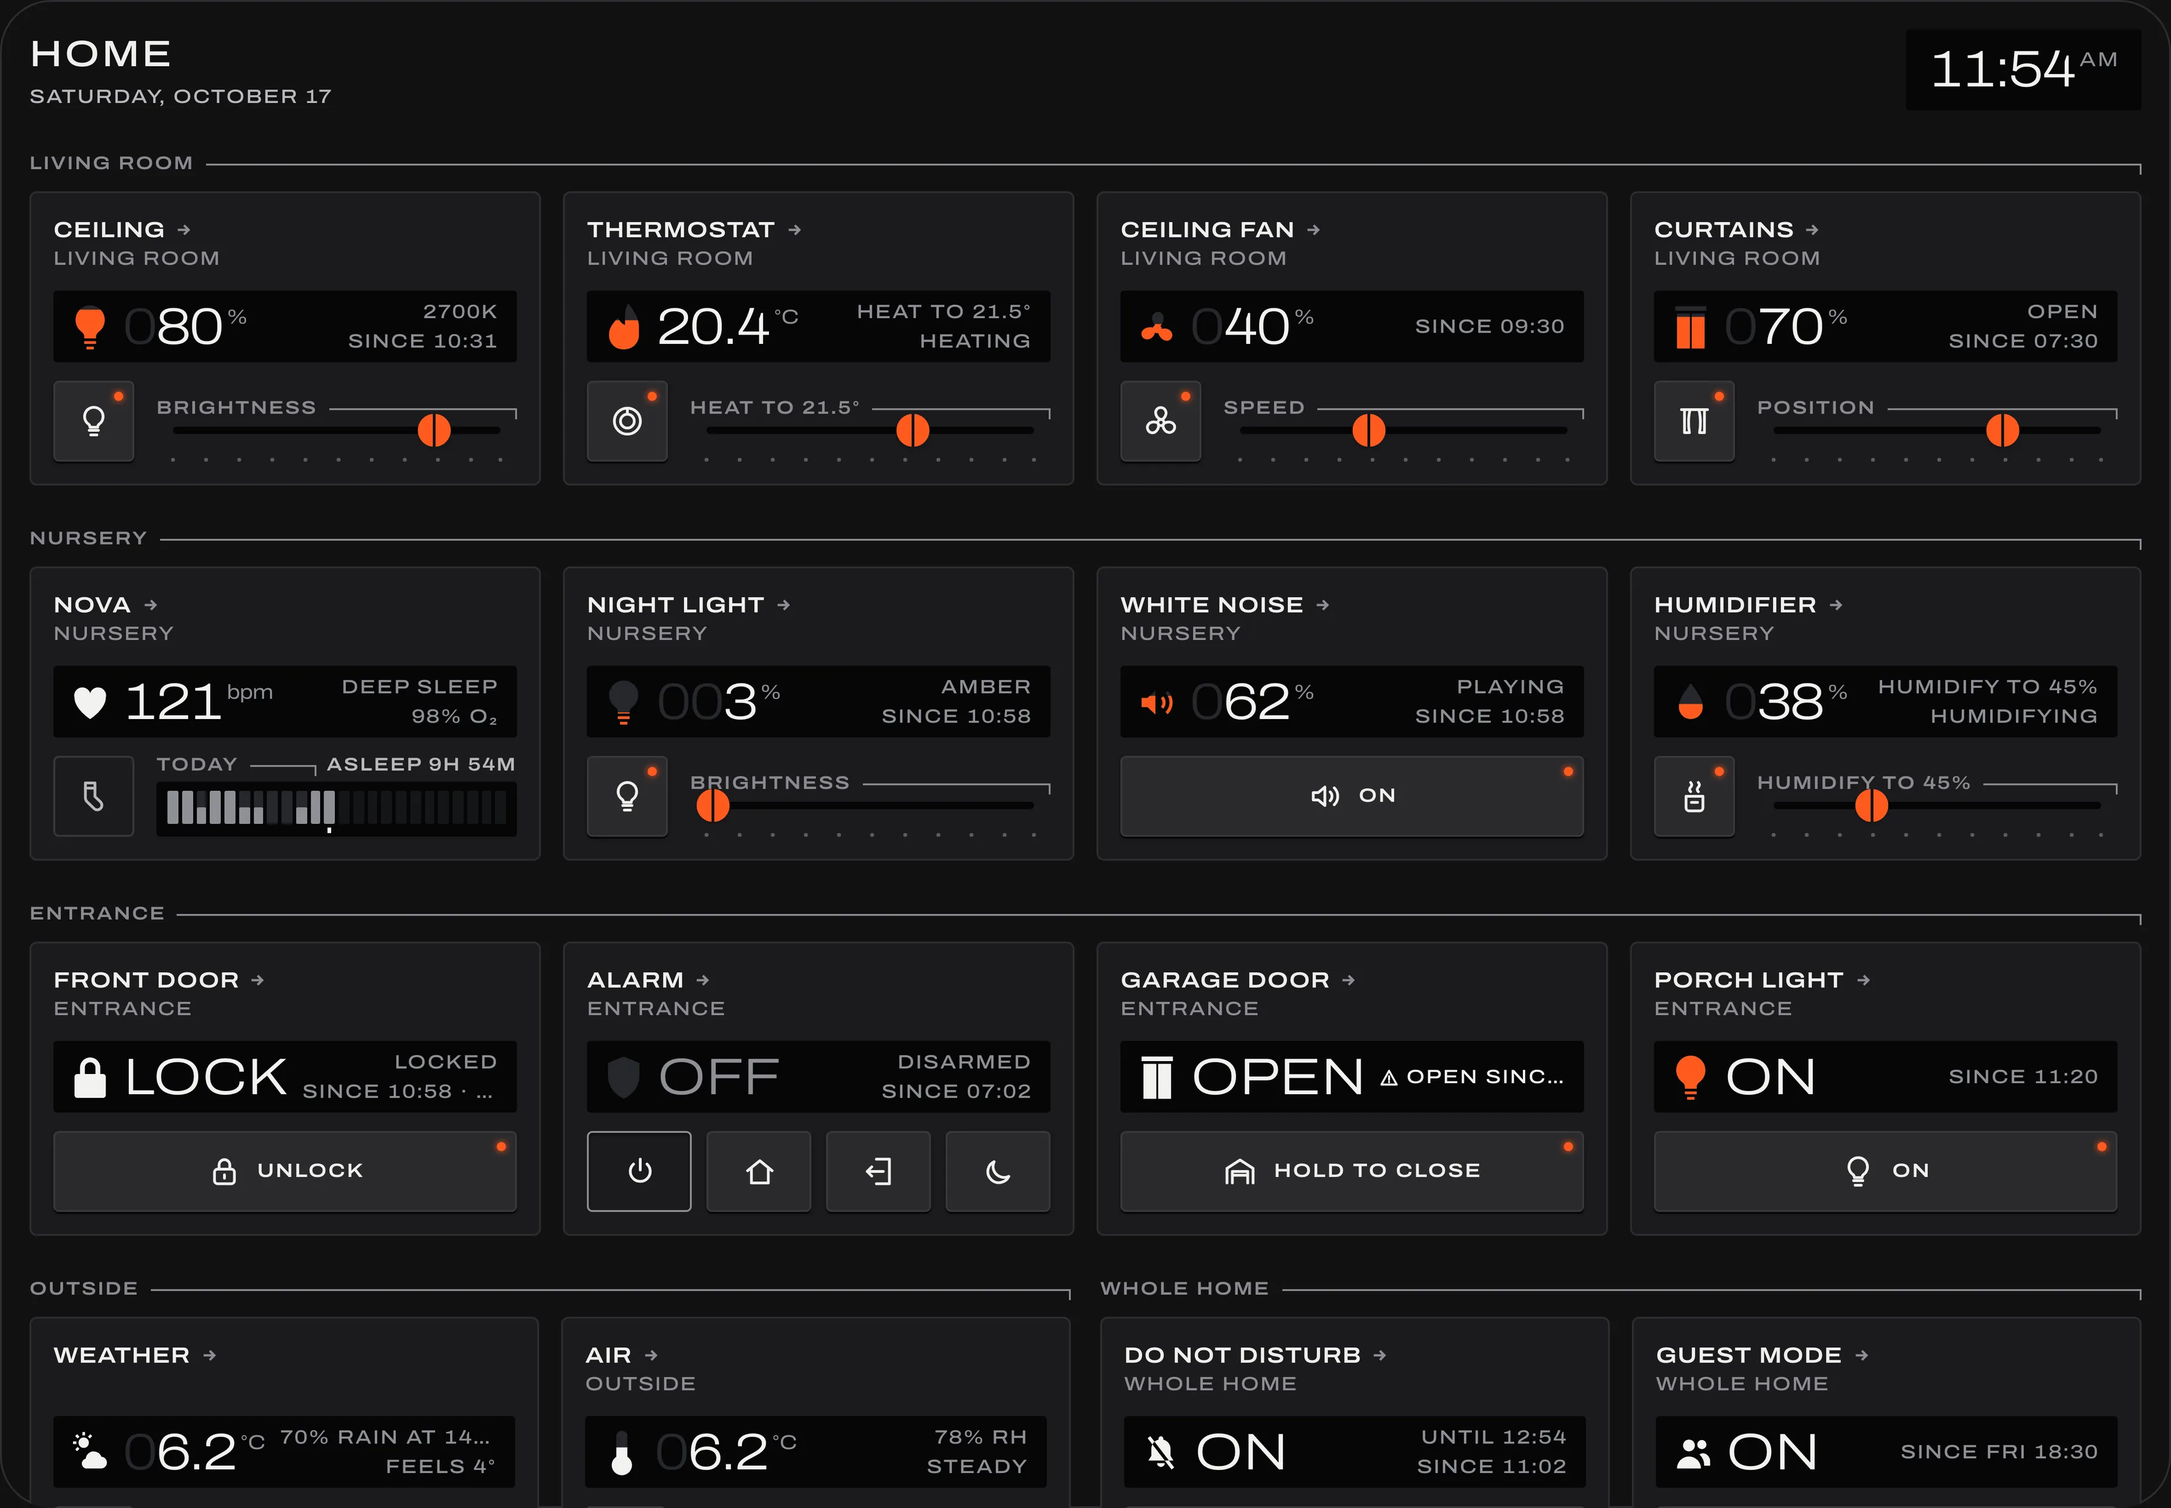
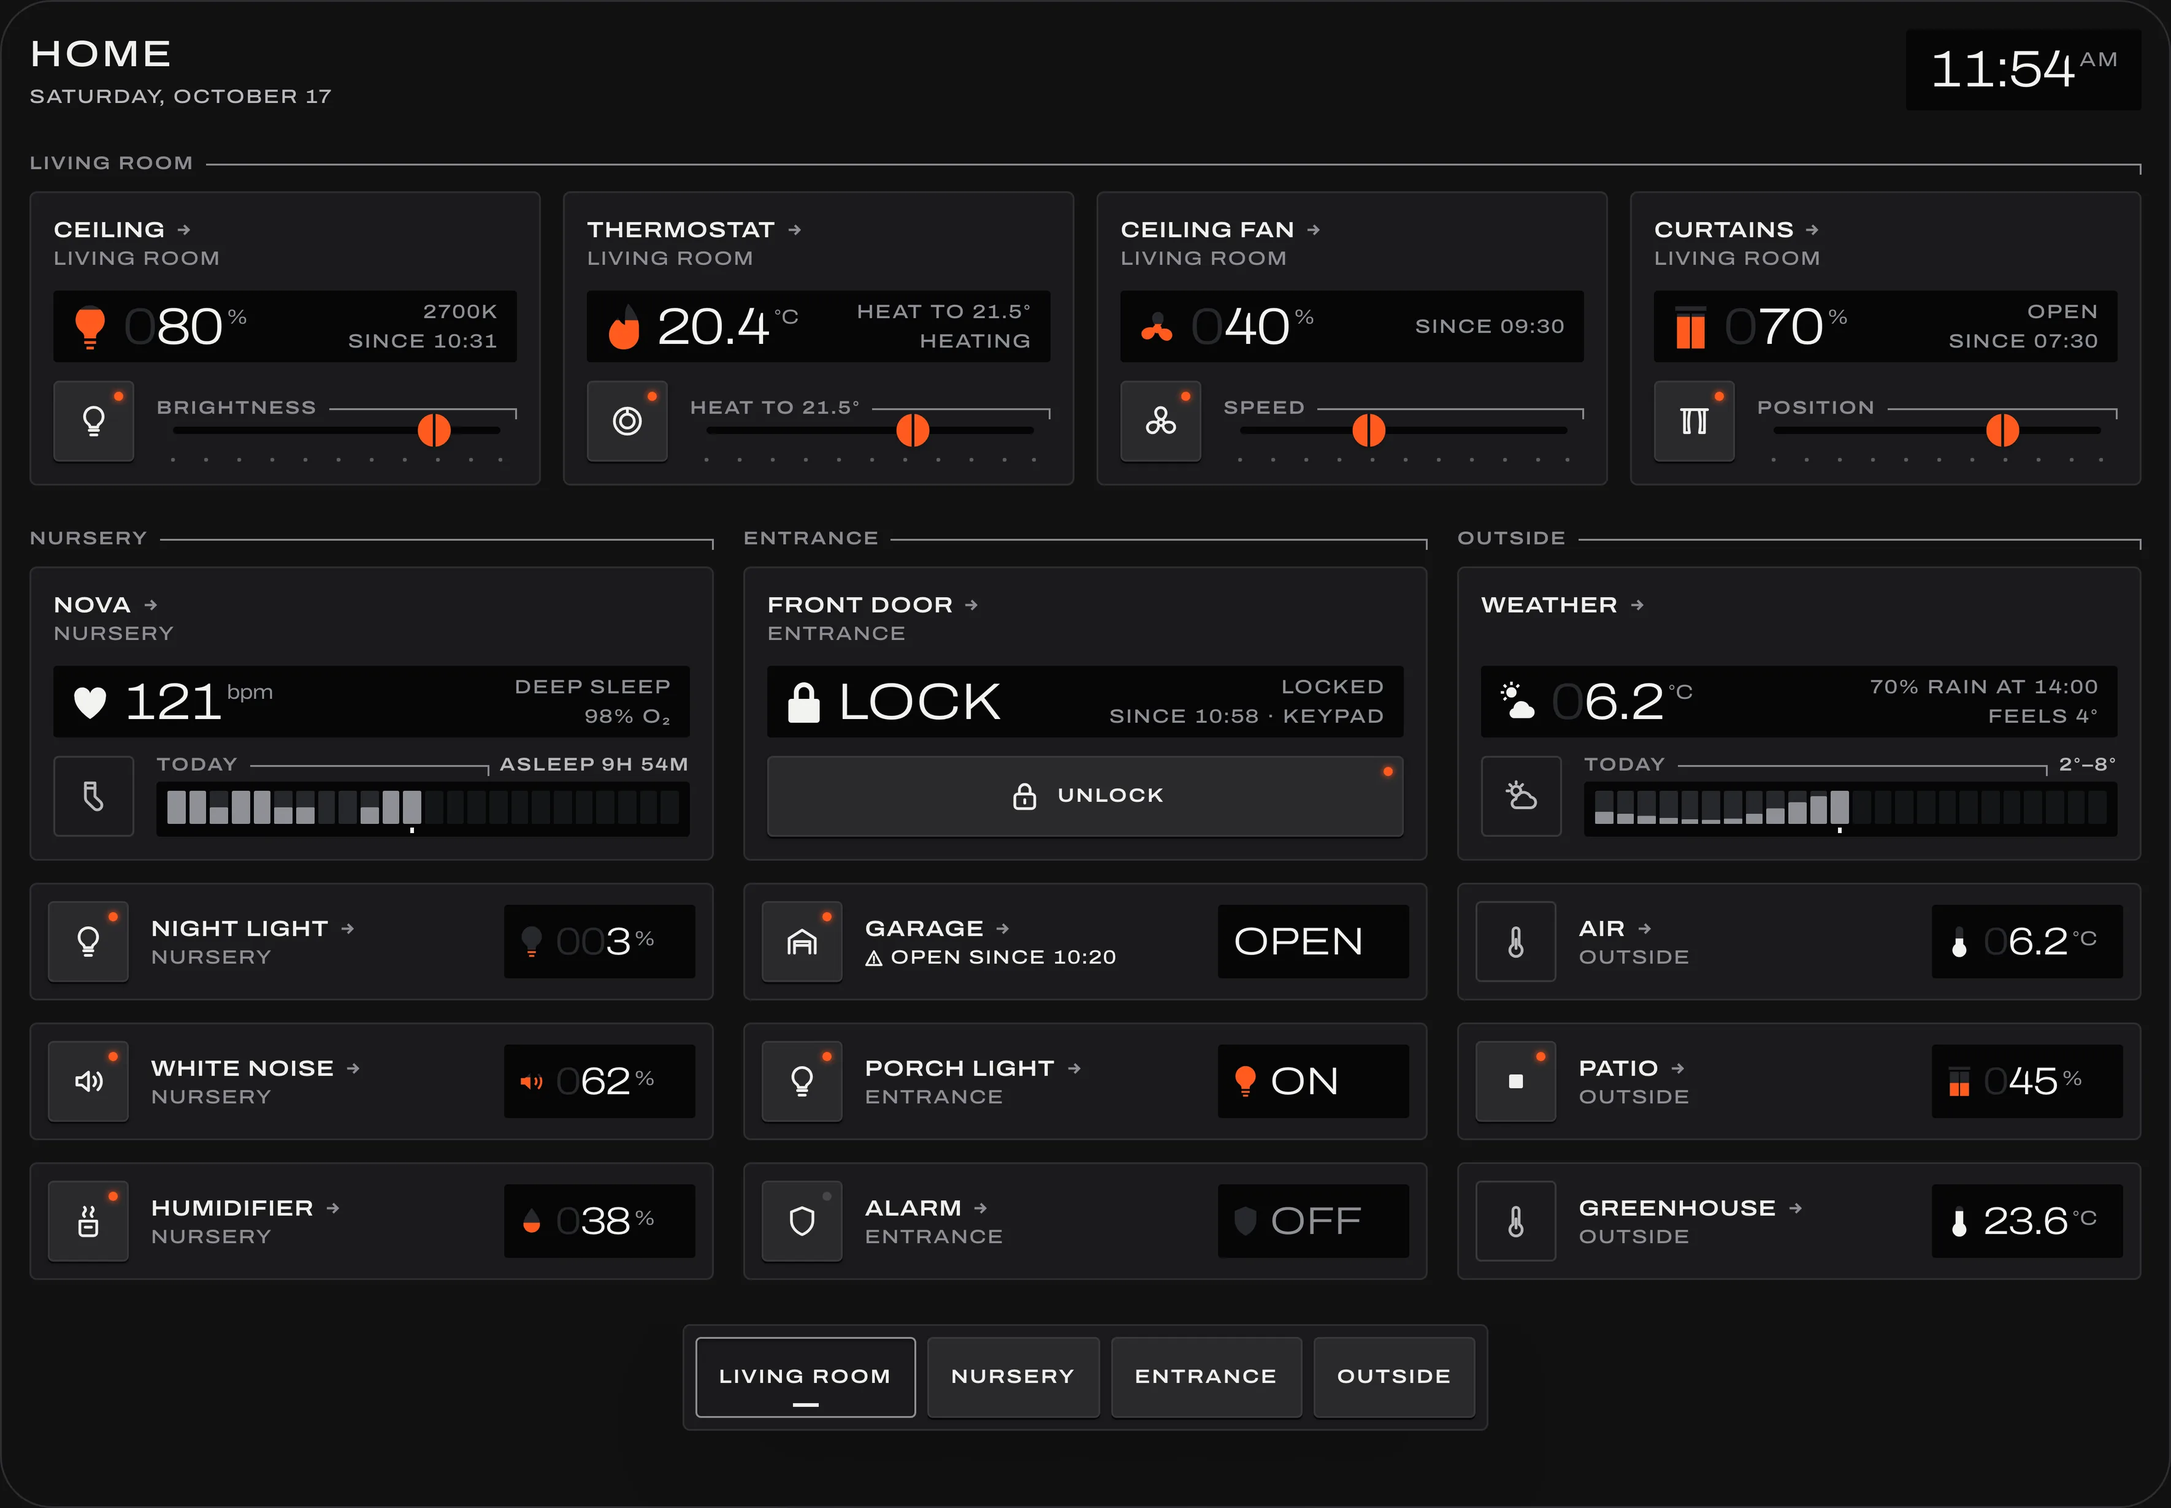
field: rebuild the tablet and wall panel examples
Lead both pages with the living room and dock their nav, add the garden and greenhouse seeds they draw, and show the wall panel in Field's Marketplace README.

diff --git a/src/skins/field/dashboards/Examples.stories.tsx b/src/skins/field/dashboards/Examples.stories.tsx
@@ -211,80 +211,110 @@ export const Phone: Story = {
   ),
 };
 
-/** Tablet, landscape: whole modules, an area a row of four, so every fader, key and today's meter is in reach; the
-    living room first, then the nursery and the entrance, then the outside beside the whole home's modes. */
-export const Tablet: Story = {
-  render: () => (
-    <Device label="Tablet, landscape" width={1180} height={820}>
-      <FieldPage title="Home" now={NOW} showTime>
-        <Area title="Living room">
-          <Light seed="dimmable" area="Living room" />
-          <Climate seed="heating" area="Living room" />
-          <Fan seed="ceiling" area="Living room" />
-          <Cover seed="curtains" area="Living room" />
-        </Area>
-        <Area title="Nursery">
-          <Owlet seed="deep" area="Nursery" />
-          <Light seed="nightLight" area="Nursery" />
-          <Sound seed="on" area="Nursery" />
-          <Humidifier seed="on" area="Nursery" name="Humidifier" />
-        </Area>
-        <Area title="Entrance">
-          <Lock seed="locked" area="Entrance" />
-          <Alarm seed="disarmed" area="Entrance" />
-          <Cover seed="garage" area="Entrance" />
-          <Light seed="onOff" area="Entrance" />
-        </Area>
-        <Areas columns={2}>
-          <Area title="Outside">
-            <Weather seed="partly" name="Weather" />
-            <Sensor seed="outdoor" area="Outside" name="Air" />
-          </Area>
-          <Area title="Whole home">
-            <Toggle seed="dnd" area="Whole home" />
-            <Toggle seed="guest" area="Whole home" />
-          </Area>
-        </Areas>
-      </FieldPage>
-    </Device>
-  ),
-};
+const TABLET_AREAS = [["living", "Living room"], ["nursery", "Nursery"], ["entrance", "Entrance"], ["outside", "Outside"]] as const;
 
-/** The wall panel's page, read up close or across the room. */
-function WallPage({ viewing }: { viewing?: "far" }) {
+/**
+ * The tablet's page: the living room across the top, the page's hero and the room you press most, then a column per
+ * other place, each led by its one whole module and taking 64 px rows under it. The nav docked at the bottom keeps the
+ * place being read down.
+ */
+function TabletPage() {
+  const page = useRef<HTMLDivElement>(null);
+  const [reading, jump] = useScrollSpy(page);
+  const nav = <NavBar items={TABLET_AREAS.map(([id, label]) => ({ key: id, label, kind: "section", current: reading === id, onSelect: () => jump(id) }))} />;
+  const row = { footprint: "compact" } as const;
   return (
-    <FieldPage title="Home" now={NOW} showTime viewing={viewing}>
-      <Areas columns={4}>
-        <Area title="Living room">
-          <Light seed="dimmable" area="Living room" />
-          <Climate seed="heating" area="Living room" />
-          <Fan seed="ceiling" area="Living room" footprint="compact" />
-          <Cover seed="curtains" area="Living room" footprint="compact" />
-        </Area>
-        <Area title="Nursery">
+    <FieldPage title="Home" now={NOW} showTime pageRef={page} nav={nav}>
+      <Area id="living" title="Living room">
+        <Light seed="dimmable" area="Living room" />
+        <Climate seed="heating" area="Living room" />
+        <Fan seed="ceiling" area="Living room" />
+        <Cover seed="curtains" area="Living room" />
+      </Area>
+      <Areas columns={3}>
+        <Area id="nursery" title="Nursery">
           <Owlet seed="deep" area="Nursery" />
-          <Light seed="nightLight" area="Nursery" />
-          <Sound seed="on" area="Nursery" footprint="compact" />
-          <Humidifier seed="on" area="Nursery" name="Humidifier" footprint="compact" />
+          <Light seed="nightLight" area="Nursery" {...row} />
+          <Sound seed="on" area="Nursery" {...row} />
+          <Humidifier seed="on" area="Nursery" name="Humidifier" {...row} />
         </Area>
-        <Area title="Whole home">
-          <Alarm seed="away" area="Whole home" />
-          <Lock seed="locked" area="Whole home" footprint="compact" />
-          <Toggle seed="dnd" area="Whole home" footprint="compact" />
-          <Cover seed="garage" area="Whole home" footprint="compact" />
+        <Area id="entrance" title="Entrance">
+          <Lock seed="locked" area="Entrance" />
+          <Cover seed="garage" area="Entrance" name="Garage" {...row} />
+          <Light seed="onOff" area="Entrance" name="Porch light" {...row} />
+          <Alarm seed="disarmed" area="Entrance" {...row} />
         </Area>
-        <Area title="Outside">
+        <Area id="outside" title="Outside">
           <Weather seed="partly" name="Weather" />
-          <Light seed="onOff" area="Outside" footprint="compact" />
-          <Sensor seed="outdoor" area="Outside" name="Air" footprint="compact" />
+          <Sensor seed="outdoor" area="Outside" name="Air" {...row} />
+          <Cover seed="moving" area="Outside" name="Patio" {...row} />
+          <Sensor seed="greenhouse" {...row} />
         </Area>
       </Areas>
     </FieldPage>
   );
 }
 
-/** Wall panel, landscape: one column per place, its leads whole modules and the rest 64 px rows under them; the whole
-    1280 × 800 surface fits without scrolling. */
+/** Tablet, landscape: the living room across the top, then a column per place, each led by its whole module and taking
+    rows under it, so every fader, key and today's meter is in reach; the nav docked at the bottom names each place. */
+export const Tablet: Story = {
+  render: () => (
+    <Device label="Tablet, landscape" width={1180} height={820}>
+      <TabletPage />
+    </Device>
+  ),
+};
+
+const WALL_AREAS = [["living", "Living room"], ["nursery", "Nursery"], ["entrance", "Entrance"], ["outside", "Outside"]] as const;
+
+/**
+ * The wall panel's page, read up close or across the room: one column per place, its two whole modules leading and the
+ * rest 64 px rows under them, and the nav docked at the bottom. The two screens of each column set its rhythm; the rows
+ * only ever fit under them.
+ */
+function WallPage({ viewing }: { viewing?: "far" }) {
+  const page = useRef<HTMLDivElement>(null);
+  const [reading, jump] = useScrollSpy(page);
+  const nav = <NavBar items={WALL_AREAS.map(([id, label]) => ({ key: id, label, kind: "section", current: reading === id, onSelect: () => jump(id) }))} />;
+  const row = { footprint: "compact" } as const;
+  return (
+    <FieldPage title="Home" now={NOW} showTime viewing={viewing} pageRef={page} nav={nav}>
+      <Areas columns={4}>
+        <Area id="living" title="Living room">
+          <Light seed="dimmable" area="Living room" />
+          <Climate seed="heating" area="Living room" />
+          <Fan seed="ceiling" area="Living room" {...row} />
+          <Cover seed="curtains" area="Living room" {...row} />
+          <Light seed="dimmableOff" area="Living room" name="Reading" {...row} />
+        </Area>
+        <Area id="nursery" title="Nursery">
+          <Owlet seed="deep" area="Nursery" />
+          <Light seed="nightLight" area="Nursery" />
+          <Sound seed="on" area="Nursery" {...row} />
+          <Humidifier seed="on" area="Nursery" name="Humidifier" {...row} />
+          <Toggle seed="novaSleep" area="Nursery" {...row} />
+        </Area>
+        <Area id="entrance" title="Entrance">
+          <Alarm seed="disarmed" area="Entrance" />
+          <Light seed="onOff" area="Entrance" />
+          <Lock seed="locked" area="Entrance" {...row} />
+          <Lock seed="unlocked" area="Entrance" name="Back door" {...row} />
+          <Lock seed="code" area="Entrance" {...row} />
+        </Area>
+        <Area id="outside" title="Outside">
+          <Weather seed="partly" name="Weather" />
+          <Sensor seed="greenhouse" />
+          <Sensor seed="outdoor" area="Outside" name="Air" {...row} />
+          <Cover seed="moving" area="Outside" name="Patio" {...row} />
+          <Light seed="garden" {...row} />
+        </Area>
+      </Areas>
+    </FieldPage>
+  );
+}
+
+/** Wall panel, landscape: one column per place, two whole modules leading and rows under them; the whole 1280 × 800
+    surface fits without scrolling, and the nav at the bottom keeps the place being read down. */
 export const WallPanel: Story = {
   name: "Wall panel",
   render: () => (

diff --git a/docs/scripts/screenshots.js b/docs/scripts/screenshots.js
@@ -4,9 +4,10 @@
  * at four device pixels per CSS pixel and kept at three or more, so they stay sharp on a high-density screen at the
  * largest size the site shows them (the pages give each a srcset, so a smaller screen downloads less):
  *
- * - `src/assets/skins/<device>-<skin>-<look>.webp`: each skin's phone and tablet examples, the screen alone, at three
- *   times the device's width. The home page shows the phone's while the live story loads, and in its place where the
- *   story can't run; the skins' Marketplace READMEs open on the tablet's.
+ * - `src/assets/skins/<device>-<skin>-<look>.webp`: each skin's phone and tablet examples, and Field's wall panel, the
+ *   screen alone, at three times the device's width. The home page shows the phone's while the live story loads, and
+ *   in its place where the story can't run; the skins' Marketplace READMEs open on the tablet's, and Field's carries the
+ *   wall panel's below it.
  * - `src/assets/kinds/<kind>-<look>.webp`: one card of each kind of entity, Orb's tile over Field's module, at four
  *   times its 400 × 500 band, for the home page's list of what the skins draw.
  * - `src/assets/layout/composition-<device>-<look>.webp`: the Orb Lovelace card's Composition stories on a tablet and a
@@ -14,7 +15,7 @@
  *   collapses.
  *
  * Run `npm run build-storybook` at the root first, then `npm run screenshots -w docs [-- <storybook-static dir>]`. Rerun
- * it when a skin's phone example, one of the cards below or the Composition stories change.
+ * it when a skin's phone, tablet or wall panel example, one of the cards below or the Composition stories change.
  */
 /* global document */
 import { createServer } from "node:http";
@@ -109,6 +110,17 @@ try {
         console.log(`wrote skins/${device}-${skin}-${look}.webp`);
       }
     }
+  }
+
+  /** Field's wall panel, the second picture its Marketplace README carries: the 1280 × 800 screen alone. */
+  for (const [look, globals] of Object.entries(LOOKS.field)) {
+    await page.setViewportSize({ width: 1400, height: 900 });
+    await open("field-dashboards-examples--wall-panel", globals);
+    const screen = page.locator("#storybook-root figure > div").first();
+    const { width } = await screen.boundingBox();
+    const shot = await screen.screenshot({ animations: "disabled" });
+    await sharp(shot).resize({ width: Math.round(width * KEPT) }).webp({ quality: 82 }).toFile(join(assets, "skins", `wall-panel-field-${look}.webp`));
+    console.log(`wrote skins/wall-panel-field-${look}.webp`);
   }
 
   /** The same YAML drawn at two widths: the story's page, as wide as its device, down to its last row. */

diff --git a/packages/core/src/seeds/sensor.ts b/packages/core/src/seeds/sensor.ts
@@ -43,6 +43,12 @@ export const SENSOR_SEEDS = {
     [4.1, 3.8, 3.5, 3.3, 3.1, 3.0, 3.4, 4.2, 5.0, 5.6, 6.0],
     [88, 89, 90, 90, 91, 91, 89, 85, 82, 80, 79],
   ),
+  /** A greenhouse: warmer and wetter than outside, the second reading a garden's page carries. */
+  greenhouse: seed(
+    { entityId: "sensor.greenhouse", name: "Greenhouse", area: "Outside", state: "ok", temperature: 23.6, humidity: 71, unit: "°C", battery: 55, lastUpdated: "11:52" },
+    [21.0, 20.2, 19.6, 19.1, 18.9, 19.2, 20.1, 21.4, 22.5, 23.1, 23.4],
+    [78, 79, 80, 80, 81, 79, 76, 74, 72, 71, 71],
+  ),
   basement: seed(
     { entityId: "sensor.basement", name: "Basement", area: "Basement", state: "ok", temperature: 17.2, humidity: 28, unit: "°C", battery: 8, lastUpdated: "11:40" },
     [17.6, 17.5, 17.5, 17.4, 17.4, 17.3, 17.3, 17.2, 17.2, 17.2, 17.2],

diff --git a/packages/core/src/seeds/light.ts b/packages/core/src/seeds/light.ts
@@ -30,6 +30,11 @@ export const LIGHT_SEEDS = {
     entity: { entityId: "light.porch", name: "Porch light", area: "Porch", state: "on", supportsBrightness: false, brightness: 100, lastChanged: "11:20" },
     past: [1, 1, 1, 1, 1, 1, 0, 0, 0, 0, 0],
   },
+  /** A garden light, up with the dawn: a control whose screen is the only lit thing outside. */
+  garden: {
+    entity: { entityId: "light.garden", name: "Garden", area: "Outside", state: "on", supportsBrightness: true, brightness: 40, lastChanged: "05:40" },
+    past: [0, 0, 0, 0, 0, 0.4, 0.4, 0.4, 0.4, 0.4, 0.4],
+  },
   unavailable: {
     entity: { entityId: "light.shelf_strip", name: "Shelf strip", area: "Living room", state: "unavailable", supportsBrightness: true, lastSeen: "10:42" },
     past: [0, 0, 0, 0, 0, 0, 0, 0.3, 0.3, 0.3, "unavailable"],

diff --git a/hacs/field-dashboard/README.md b/hacs/field-dashboard/README.md
@@ -4,11 +4,15 @@ A dashboard for Home Assistant drawn as a hardware panel: keys you press, faders
 read. Every supported device in a room-by-room page, laid out for you and kept up to date, on a phone, a tablet or a
 wall panel.
 
-![Field on a tablet](https://raw.githubusercontent.com/Krystosterone/dashhaus/main/docs/src/assets/skins/tablet-field-light.webp)
+![Field on a tablet, the living room across the top and the other places in columns](https://raw.githubusercontent.com/Krystosterone/dashhaus/main/docs/src/assets/skins/tablet-field-light.webp)
 
 Each module has a key, a fader and a screen, with printed labels in capitals. A small orange mark shows what a
 control sets. Field comes in two finishes, light grey Alloy and Black, and opens more in a panel from the module's
 name.
+
+On a wall panel, the same house in one column per place, with the nav along the bottom:
+
+![Field on a wall panel, a column per place](https://raw.githubusercontent.com/Krystosterone/dashhaus/main/docs/src/assets/skins/wall-panel-field-light.webp)
 
 ## Install
 

diff --git a/changes/fields-tablet-and-wall-panel-examples-lead-with.md b/changes/fields-tablet-and-wall-panel-examples-lead-with.md
@@ -1,0 +1,4 @@
+---
+type: internal
+---
+Field's tablet and wall panel examples lead with the living room and dock their nav, on a demo house with a greenhouse and a garden light; its Marketplace README now shows the wall panel too.
